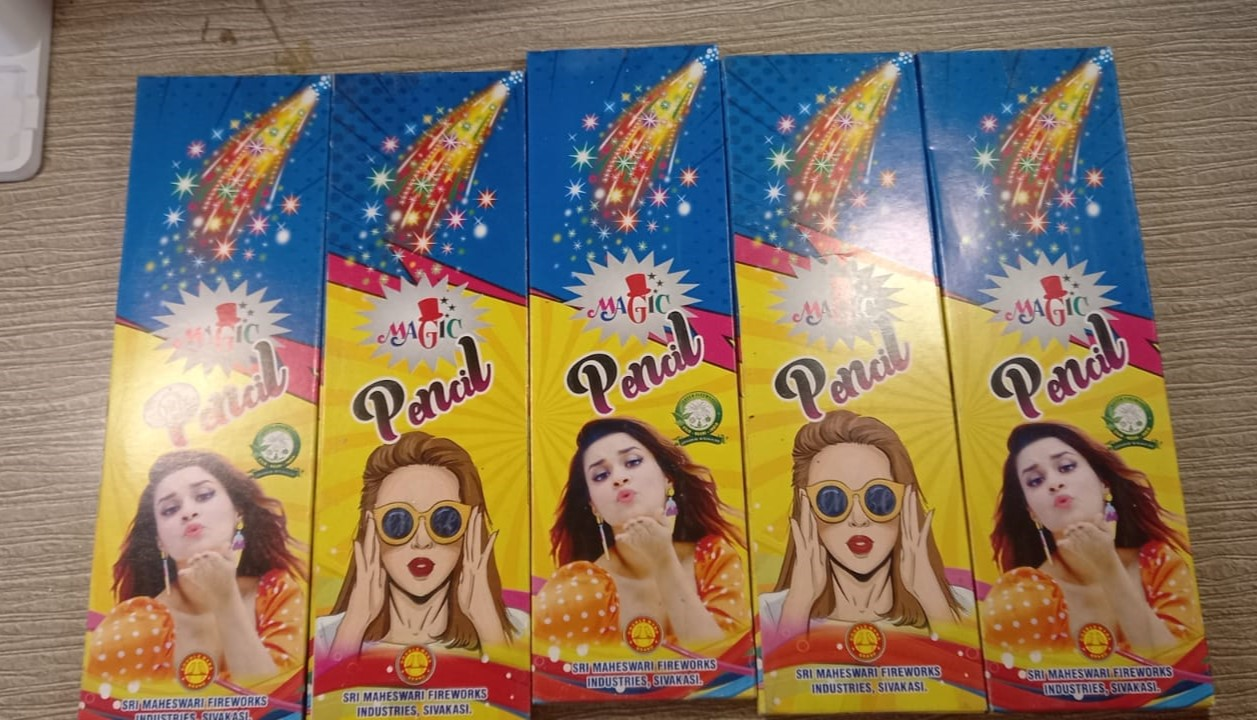
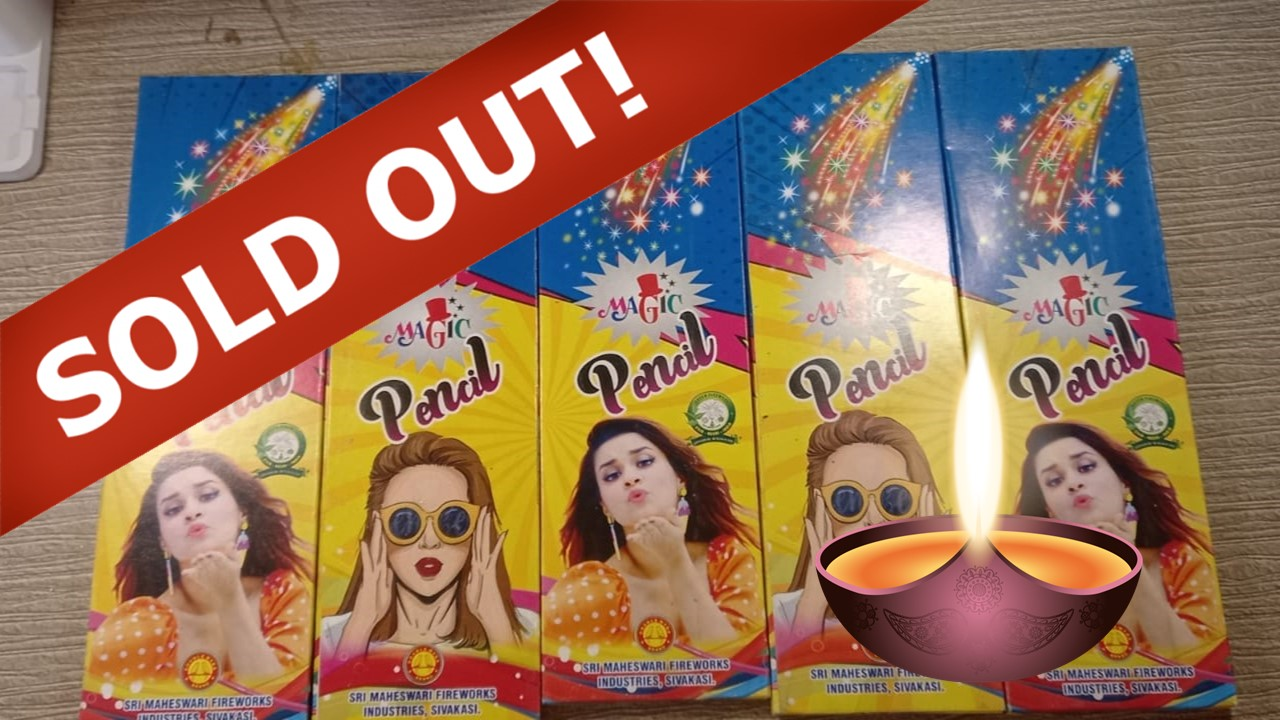
firstlast

Changed region(s): [[0.0, 0.0, 0.7446, 0.7333], [0.6205, 0.4583, 0.8998, 0.9472]]

diff --git a/Desktop/catalogs.html b/Desktop/catalogs.html
@@ -11,7 +11,7 @@
 
     <button style="background-color: darkmagenta; color: white; width: 100px;" onclick="home()">HOME</button>
 
-    <h1 style="text-align: center; font-weight: bolder; font-size: 50px;">Our Catalog</h1>
+    <h1 style="text-align: center; font-weight: bolder; font-size: 50px;">Our Catalog (WEBSITE STATUS-CLOSED, REASON- EVERYTHING SOLD OUT)</h1>
 
     <!-- First item: Phool Jadi -->
     <div class="content">
@@ -19,7 +19,7 @@
         <h3 id="itemname">5k ladi</h3>
         <p style="color: yellow;" >MRP- ₹5000</p>
         <h6 id="itemamount">Our Price- ₹1999</h6>
-        <button onclick="buynoww()" class="buy-4"><a href="#formtp">Buy Now</a></button>
+        <button class="buy-4"><a>Sold Out!!</a></button>
     </div>
 
     <!-- Second item: Thumbs Up -->
@@ -28,7 +28,7 @@
         <h3 id="itemname2">Blue eye sky shot</h3>
         <p style="color: yellow;" >MRP- ₹6850</p>
         <h6 id="itemamount2">Our Price- ₹1999</h6>
-        <button onclick="buynoww2()" class="buy-4"><a href="#formtp">Buy Now</a></button>
+        <button class="buy-4"><a>Sold Out!!</a></button>
     </div>
 
     <!-- Third item: Hershey's Chocolate Milkshake -->
@@ -93,7 +93,7 @@
         <h3 id="itemname9">Pencil Fire</h3>
         <p style="color: yellow;" >MRP- ₹350</p>
         <h6 id="itemamount9">Our Price- ₹129</h6>
-        <button onclick="buynoww9()" class="buy-4"><a href="#formtp">Buy Now</a></button>
+        <button class="buy-4"><a>Sold Out!!</a></button>
     </div>
 
 
@@ -104,7 +104,7 @@
         <h3 id="itemname10">Dangal shots</h3>
         <p style="color: yellow;" >MRP- ₹4800</p>
         <h6 id="itemamount10">Our Price- ₹1999</h6>
-        <button onclick="buynoww10()" class="buy-4"><a href="#formtp">Buy Now</a></button>
+        <button class="buy-4"><a>Sold Out!!</a></button>
     </div>
 
     <!-- Second item: Thumbs Up -->
@@ -196,7 +196,7 @@
         <h3 id="itemname21">2G Ladi</h3>
         <p style="color: yellow;">MRP- ₹5000</p>
         <h6 id="itemamount21">Our Price- ₹1999</h6>
-        <button onclick="buynoww21()" class="buy-4"><a href="#formtp">Buy Now</a></button>
+        <button class="buy-4"><a>Sold Out!!</a></button>
     </div>
     
     <div class="content">
@@ -284,7 +284,7 @@
         <h3 id="itemname32">Sparkle box</h3>
         <p style="color: yellow;">MRP- ₹300</p>
         <h6 id="itemamount32">Our Price- ₹199</h6>
-        <button onclick="buynoww32()" class="buy-4"><a href="#formtp">Buy Now</a></button>
+        <button class="buy-4"><a>Sold Out!!</a></button>
     </div>
     <div class="content">
         <img id="img33" style="width: 400px;" src="bird_sparkle.jpg">

diff --git a/Mobile/catalogs.html b/Mobile/catalogs.html
@@ -11,7 +11,7 @@
 
     <button style="background-color: darkmagenta; color: white; width: 100px;" onclick="home()">HOME</button>
 
-    <h1 style="text-align: center; font-weight: bolder; font-size: 50px;">Our Catalog</h1>
+    <h1 style="text-align: center; font-weight: bolder; font-size: 50px;">Our Catalog (WEBSITE STATUS-CLOSED, REASON- EVERYTHING SOLD OUT)</h1>
 
     <!-- First item: Phool Jadi -->
     <div class="content">
@@ -19,7 +19,7 @@
         <h3 id="itemname">5k ladi</h3>
         <p style="color: yellow;" >MRP- ₹5000</p>
         <h6 id="itemamount">Our Price- ₹1999</h6>
-        <button onclick="buynoww()" class="buy-4"><a href="#formtp">Buy Now</a></button>
+        <button class="buy-4"><a>Sold Out!!</a></button>
     </div>
 
     <!-- Second item: Thumbs Up -->
@@ -28,7 +28,7 @@
         <h3 id="itemname2">Blue eye sky shot</h3>
         <p style="color: yellow;" >MRP- ₹6850</p>
         <h6 id="itemamount2">Our Price- ₹1999</h6>
-        <button onclick="buynoww2()" class="buy-4"><a href="#formtp">Buy Now</a></button>
+        <button class="buy-4"><a>Sold Out!!</a></button>
     </div>
 
     <!-- Third item: Hershey's Chocolate Milkshake -->
@@ -93,7 +93,7 @@
         <h3 id="itemname9">Pencil Fire</h3>
         <p style="color: yellow;" >MRP- ₹350</p>
         <h6 id="itemamount9">Our Price- ₹129</h6>
-        <button onclick="buynoww9()" class="buy-4"><a href="#formtp">Buy Now</a></button>
+        <button class="buy-4"><a>Sold Out!!</a></button>
     </div>
 
 
@@ -104,7 +104,7 @@
         <h3 id="itemname10">Dangal shots</h3>
         <p style="color: yellow;" >MRP- ₹4800</p>
         <h6 id="itemamount10">Our Price- ₹1999</h6>
-        <button onclick="buynoww10()" class="buy-4"><a href="#formtp">Buy Now</a></button>
+        <button class="buy-4"><a>Sold Out!!</a></button>
     </div>
 
     <!-- Second item: Thumbs Up -->
@@ -196,7 +196,7 @@
         <h3 id="itemname21">2G Ladi</h3>
         <p style="color: yellow;">MRP- ₹5000</p>
         <h6 id="itemamount21">Our Price- ₹1999</h6>
-        <button onclick="buynoww21()" class="buy-4"><a href="#formtp">Buy Now</a></button>
+        <button class="buy-4"><a>Sold Out!!</a></button>
     </div>
     
     <div class="content">
@@ -284,7 +284,7 @@
         <h3 id="itemname32">Sparkle box</h3>
         <p style="color: yellow;">MRP- ₹300</p>
         <h6 id="itemamount32">Our Price- ₹199</h6>
-        <button onclick="buynoww32()" class="buy-4"><a href="#formtp">Buy Now</a></button>
+        <button class="buy-4"><a>Sold Out!!</a></button>
     </div>
     <div class="content">
         <img id="img33" style="width: 400px;" src="bird_sparkle.jpg">

diff --git a/Desktop/cat.js b/Desktop/cat.js
@@ -18,69 +18,3 @@ function con(){
 }
 
 
-
-
-
-
-
-
-
-function buynoww(){
-    var t= document.getElementById("itemname");
-    var name=t.innerText;
-    document.getElementById("proname").value = "Product Name: "+name;
-    var s= document.getElementById("itemamount");
-    var amount=s.innerText;
-    document.getElementById("proamount").value = "Product Amount: "+amount;
-}
-
-function buynoww2(){
-    var t= document.getElementById("itemname2");
-    var name=t.innerText;
-    document.getElementById("proname").value = "Product Name: "+name;
-    var s= document.getElementById("itemamount2");
-    var amount=s.innerText;
-    document.getElementById("proamount").value = "Product Amount: "+amount;
-}
-
-function buynoww9(){
-    var t= document.getElementById("itemname9");
-    var name=t.innerText;
-    document.getElementById("proname").value = "Product Name: "+name;
-    var s= document.getElementById("itemamount9");
-    var amount=s.innerText;
-    document.getElementById("proamount").value = "Product Amount: "+amount;
-}
-function buynoww10(){
-    var t= document.getElementById("itemname10");
-    var name=t.innerText;
-    document.getElementById("proname").value = "Product Name: "+name;
-    var s= document.getElementById("itemamount10");
-    var amount=s.innerText;
-    document.getElementById("proamount").value = "Product Amount: "+amount;
-}
-
-function buynoww21(){
-    var t= document.getElementById("itemname21");
-    var name=t.innerText;
-    document.getElementById("proname").value = "Product Name: "+name;
-    var s= document.getElementById("itemamount21");
-    var amount=s.innerText;
-    document.getElementById("proamount").value = "Product Amount: "+amount;
-}
-function buynoww31(){
-    var t= document.getElementById("itemname31");
-    var name=t.innerText;
-    document.getElementById("proname").value = "Product Name: "+name;
-    var s= document.getElementById("itemamount31");
-    var amount=s.innerText;
-    document.getElementById("proamount").value = "Product Amount: "+amount;
-}
-function buynoww32(){
-    var t= document.getElementById("itemname32");
-    var name=t.innerText;
-    document.getElementById("proname").value = "Product Name: "+name;
-    var s= document.getElementById("itemamount32");
-    var amount=s.innerText;
-    document.getElementById("proamount").value = "Product Amount: "+amount;
-}

diff --git a/Mobile/cat.js b/Mobile/cat.js
@@ -18,69 +18,3 @@ function con(){
 }
 
 
-
-
-
-
-
-
-
-function buynoww(){
-    var t= document.getElementById("itemname");
-    var name=t.innerText;
-    document.getElementById("proname").value = "Product Name: "+name;
-    var s= document.getElementById("itemamount");
-    var amount=s.innerText;
-    document.getElementById("proamount").value = "Product Amount: "+amount;
-}
-
-function buynoww2(){
-    var t= document.getElementById("itemname2");
-    var name=t.innerText;
-    document.getElementById("proname").value = "Product Name: "+name;
-    var s= document.getElementById("itemamount2");
-    var amount=s.innerText;
-    document.getElementById("proamount").value = "Product Amount: "+amount;
-}
-
-function buynoww9(){
-    var t= document.getElementById("itemname9");
-    var name=t.innerText;
-    document.getElementById("proname").value = "Product Name: "+name;
-    var s= document.getElementById("itemamount9");
-    var amount=s.innerText;
-    document.getElementById("proamount").value = "Product Amount: "+amount;
-}
-function buynoww10(){
-    var t= document.getElementById("itemname10");
-    var name=t.innerText;
-    document.getElementById("proname").value = "Product Name: "+name;
-    var s= document.getElementById("itemamount10");
-    var amount=s.innerText;
-    document.getElementById("proamount").value = "Product Amount: "+amount;
-}
-
-function buynoww21(){
-    var t= document.getElementById("itemname21");
-    var name=t.innerText;
-    document.getElementById("proname").value = "Product Name: "+name;
-    var s= document.getElementById("itemamount21");
-    var amount=s.innerText;
-    document.getElementById("proamount").value = "Product Amount: "+amount;
-}
-function buynoww31(){
-    var t= document.getElementById("itemname31");
-    var name=t.innerText;
-    document.getElementById("proname").value = "Product Name: "+name;
-    var s= document.getElementById("itemamount31");
-    var amount=s.innerText;
-    document.getElementById("proamount").value = "Product Amount: "+amount;
-}
-function buynoww32(){
-    var t= document.getElementById("itemname32");
-    var name=t.innerText;
-    document.getElementById("proname").value = "Product Name: "+name;
-    var s= document.getElementById("itemamount32");
-    var amount=s.innerText;
-    document.getElementById("proamount").value = "Product Amount: "+amount;
-}
